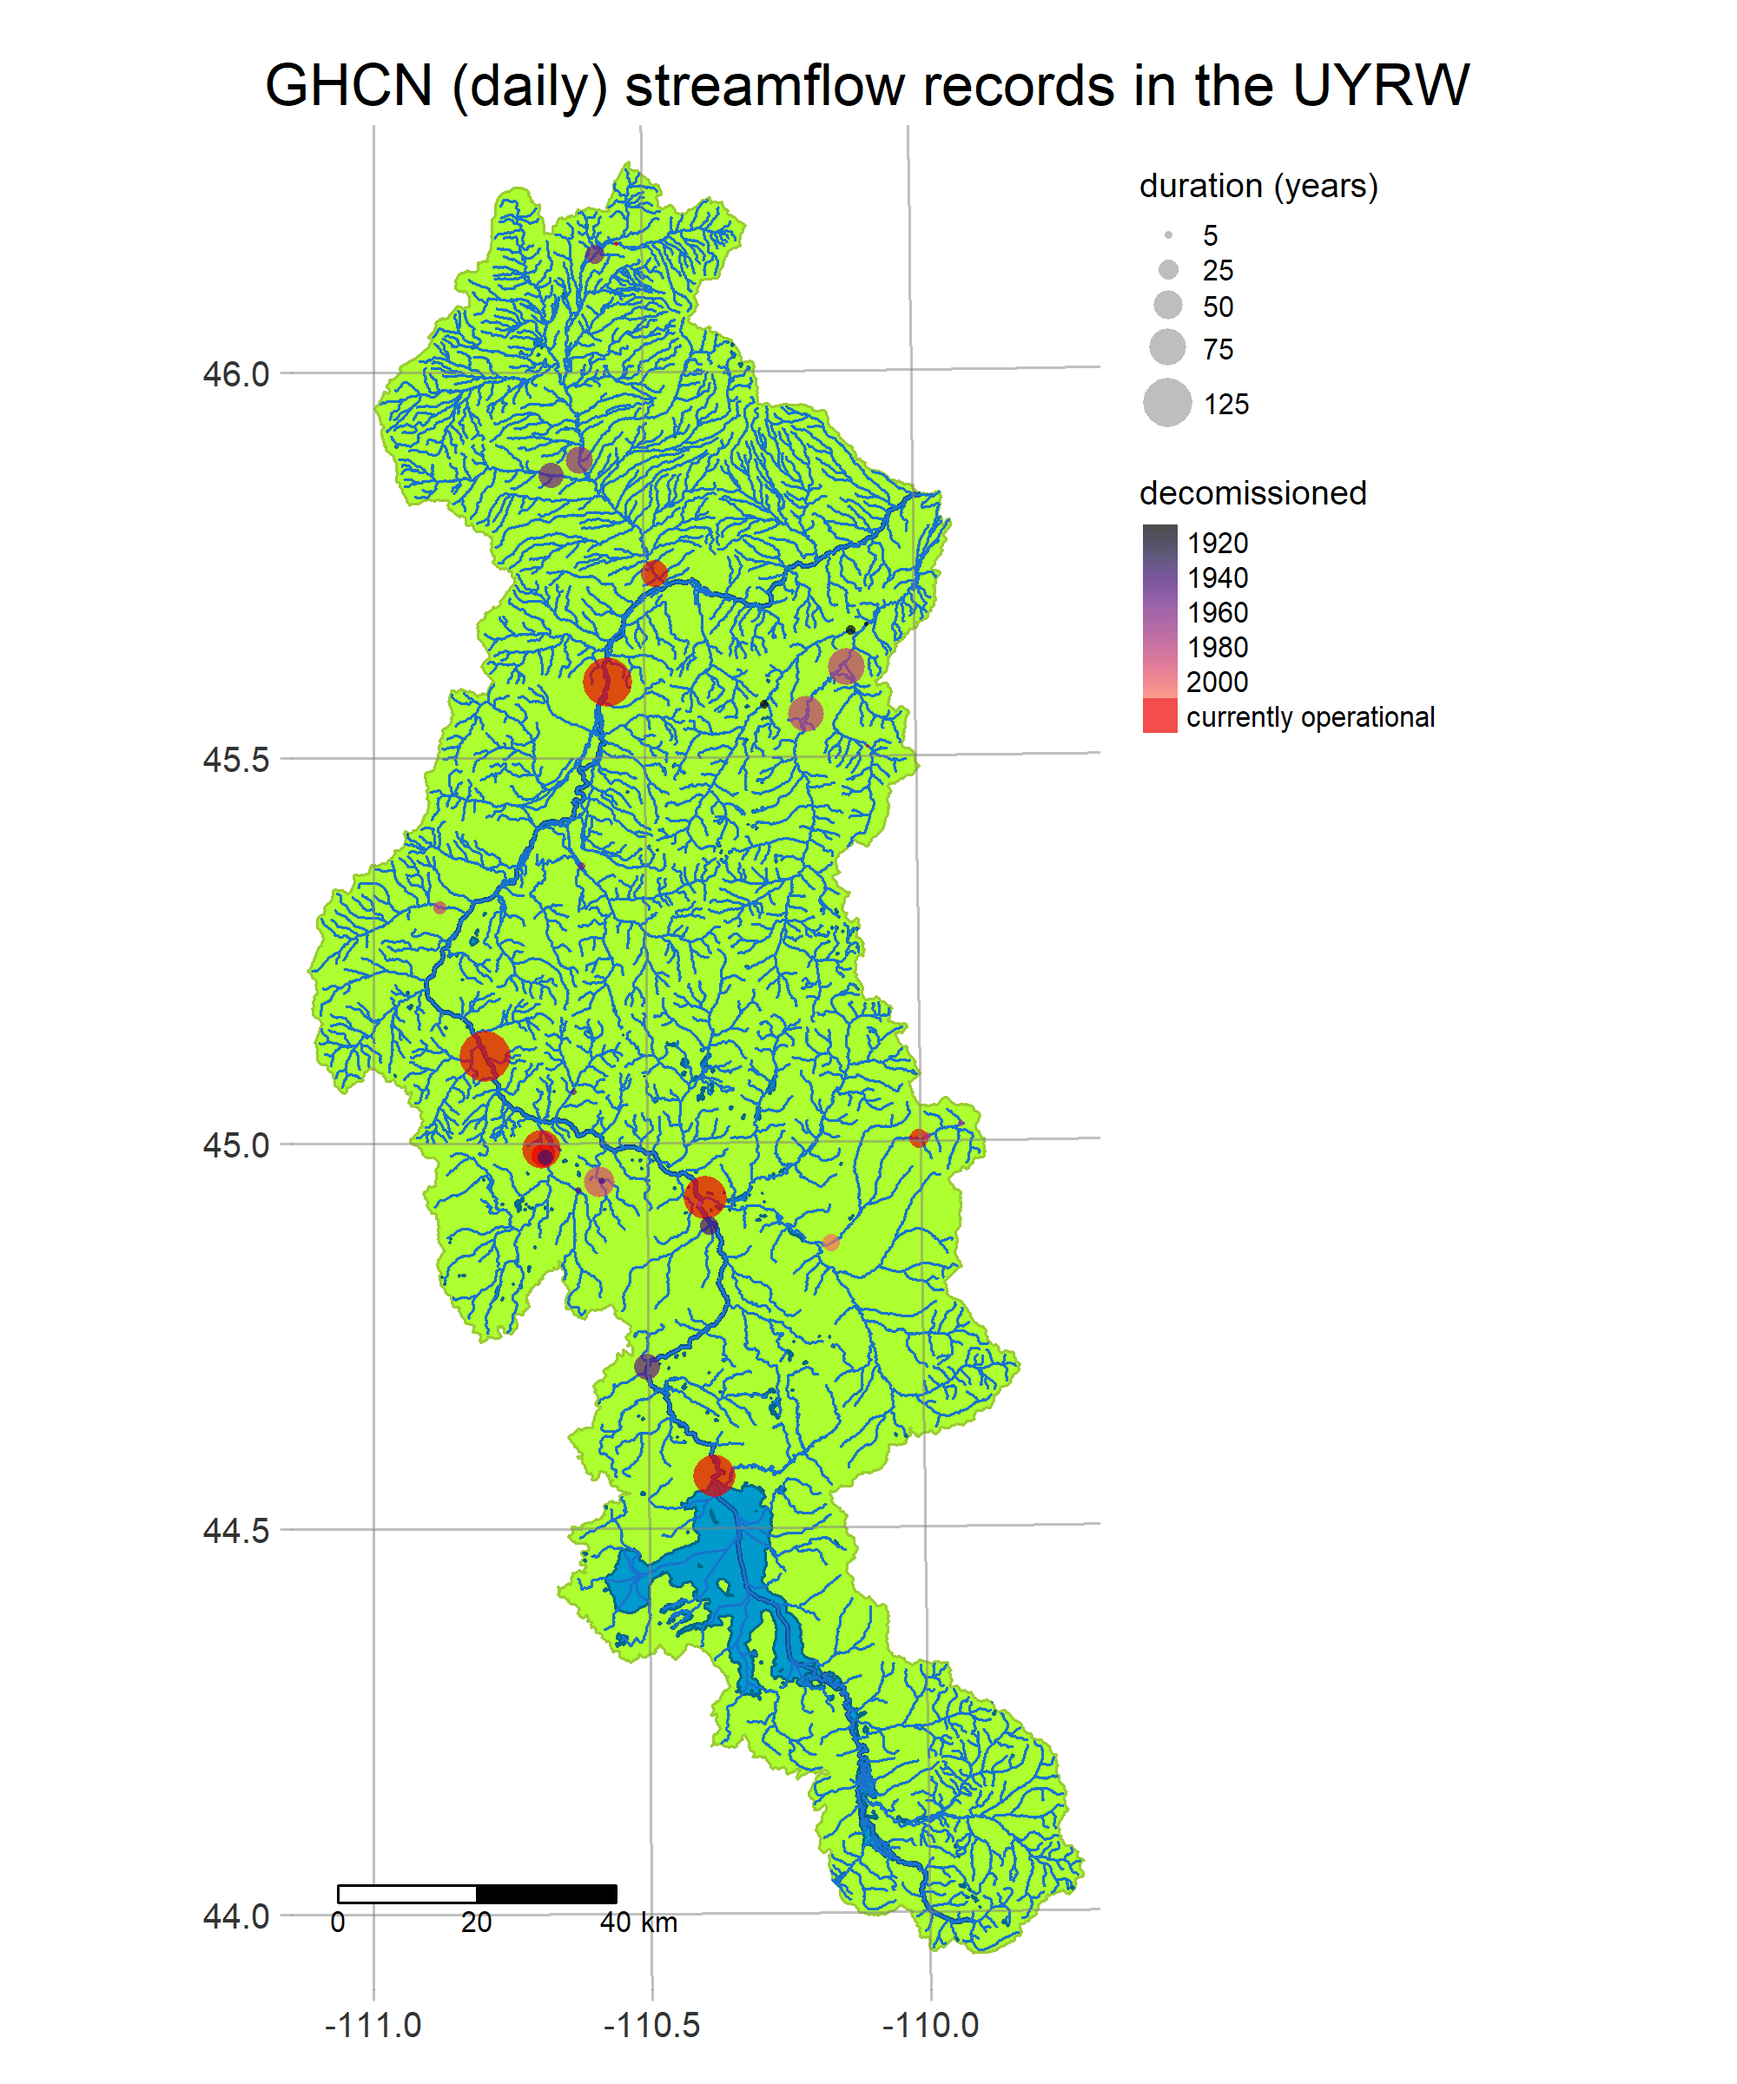
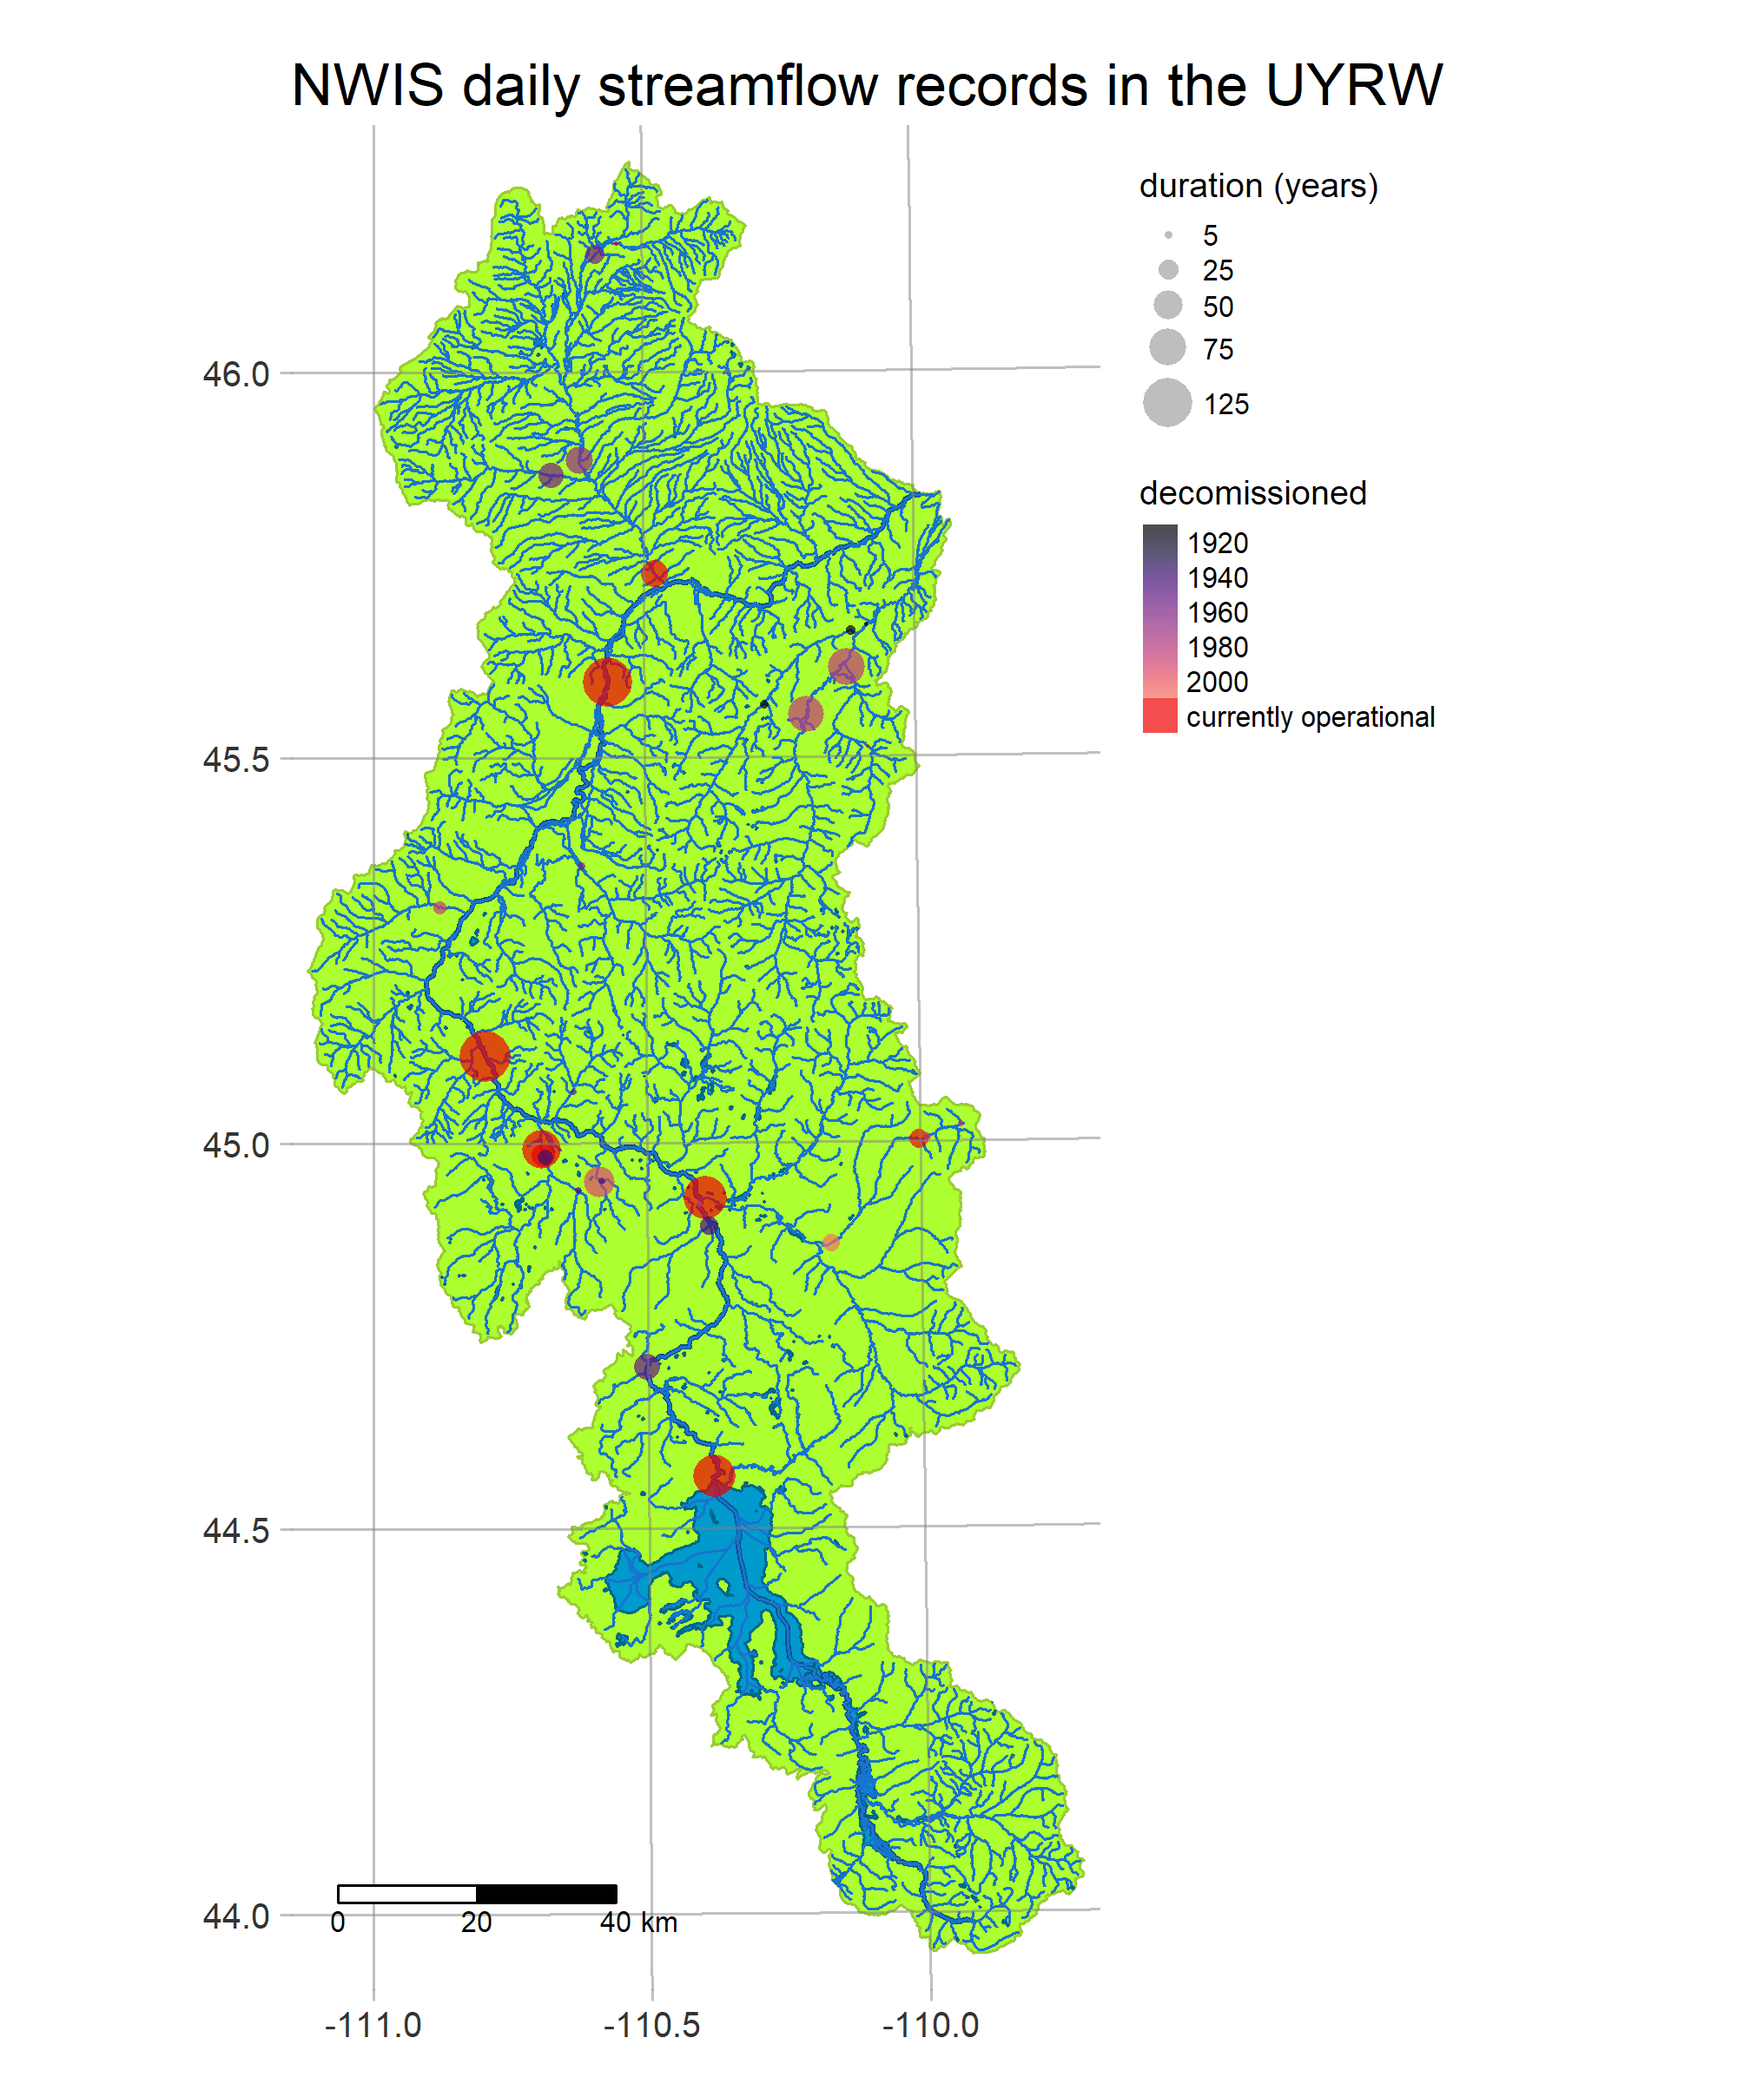
changed title of plot

Changed region(s): [[0.155, 0.0312, 0.837, 0.0625]]

diff --git a/get_streamgages.knit.md b/get_streamgages.knit.md
@@ -340,7 +340,7 @@ if(!file.exists(here(streamgage.metadata.df['img_streamgage', 'file'])))
                           colorNA='red2') +
                 tm_grid(n.x=4, n.y=5, projection=crs.list$epsg.geo, alpha=0.5) +
                 tm_scale_bar(breaks=c(0, 20, 40), position=c('left', 'bottom'), text.size=0.5) +
-                tm_layout(main.title='GHCN (daily) streamflow records in the UYRW',
+                tm_layout(main.title='NWIS daily streamflow records in the UYRW',
                           main.title.size=1,
                           main.title.position='center',
                           legend.title.size=0.7,
